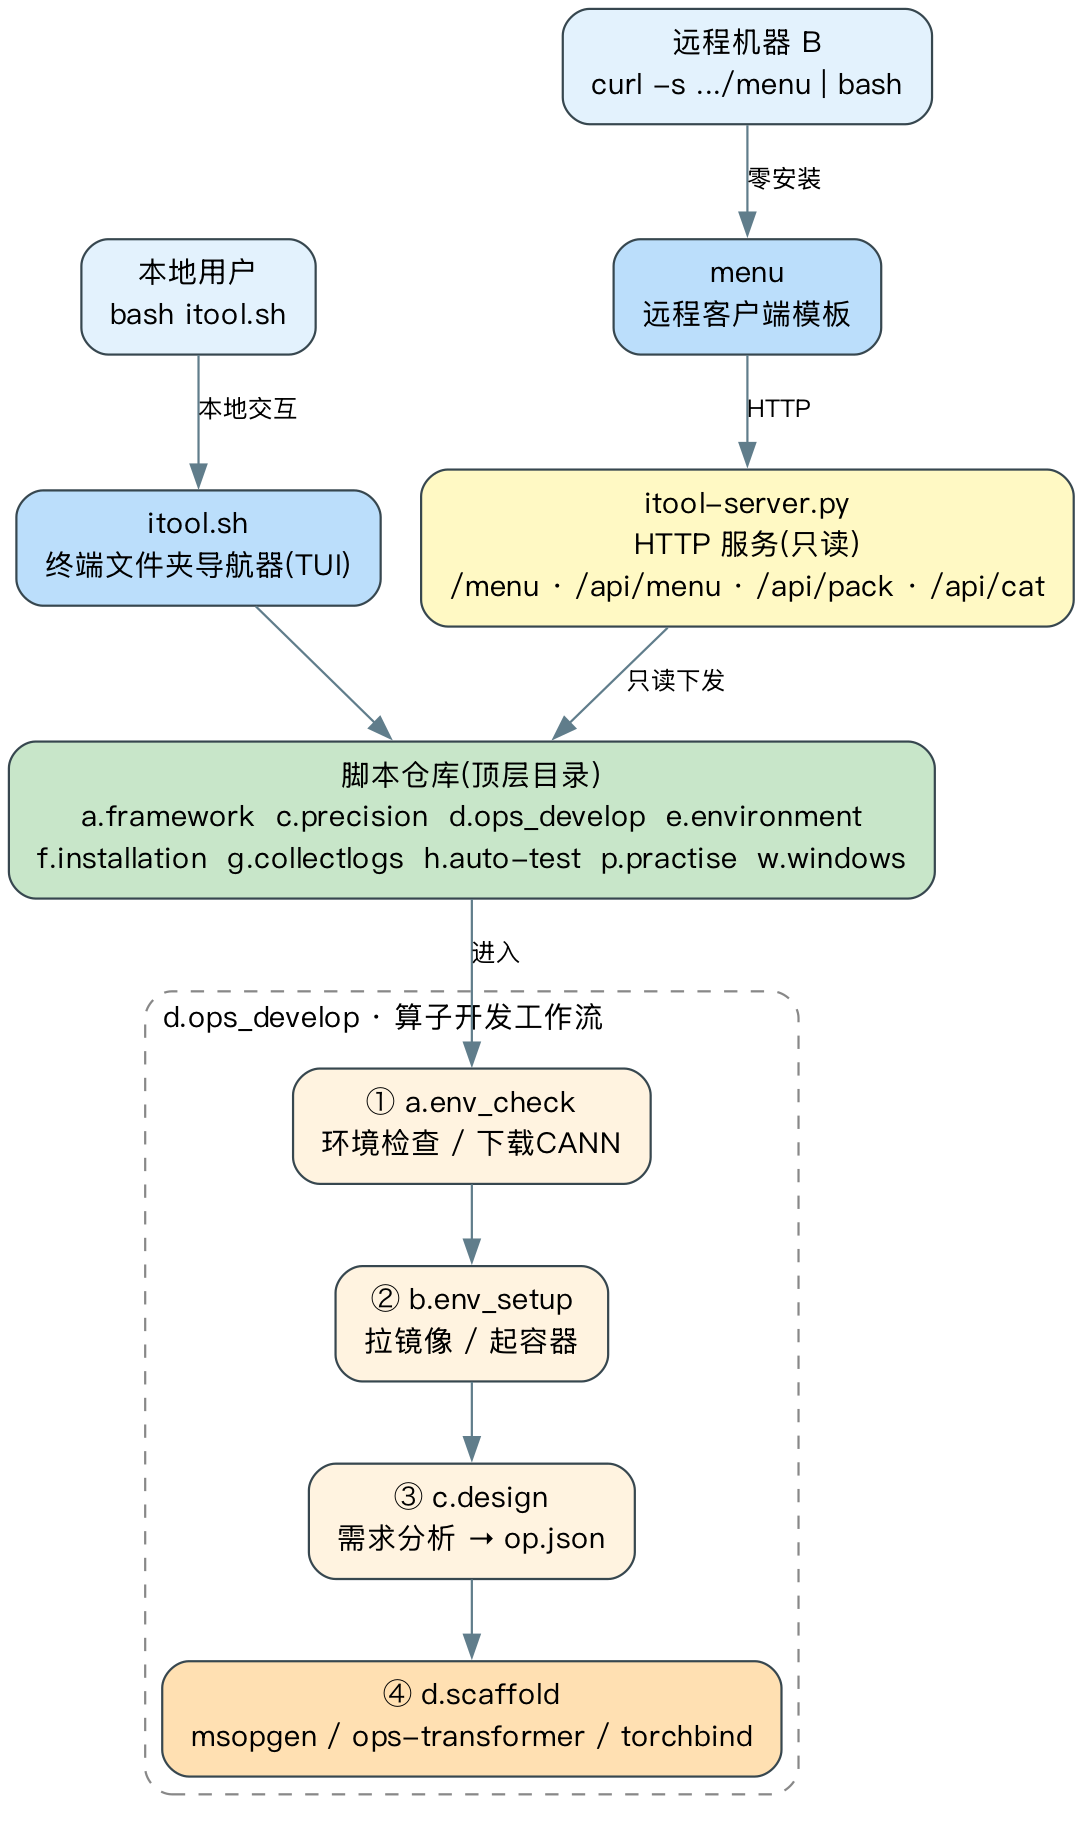
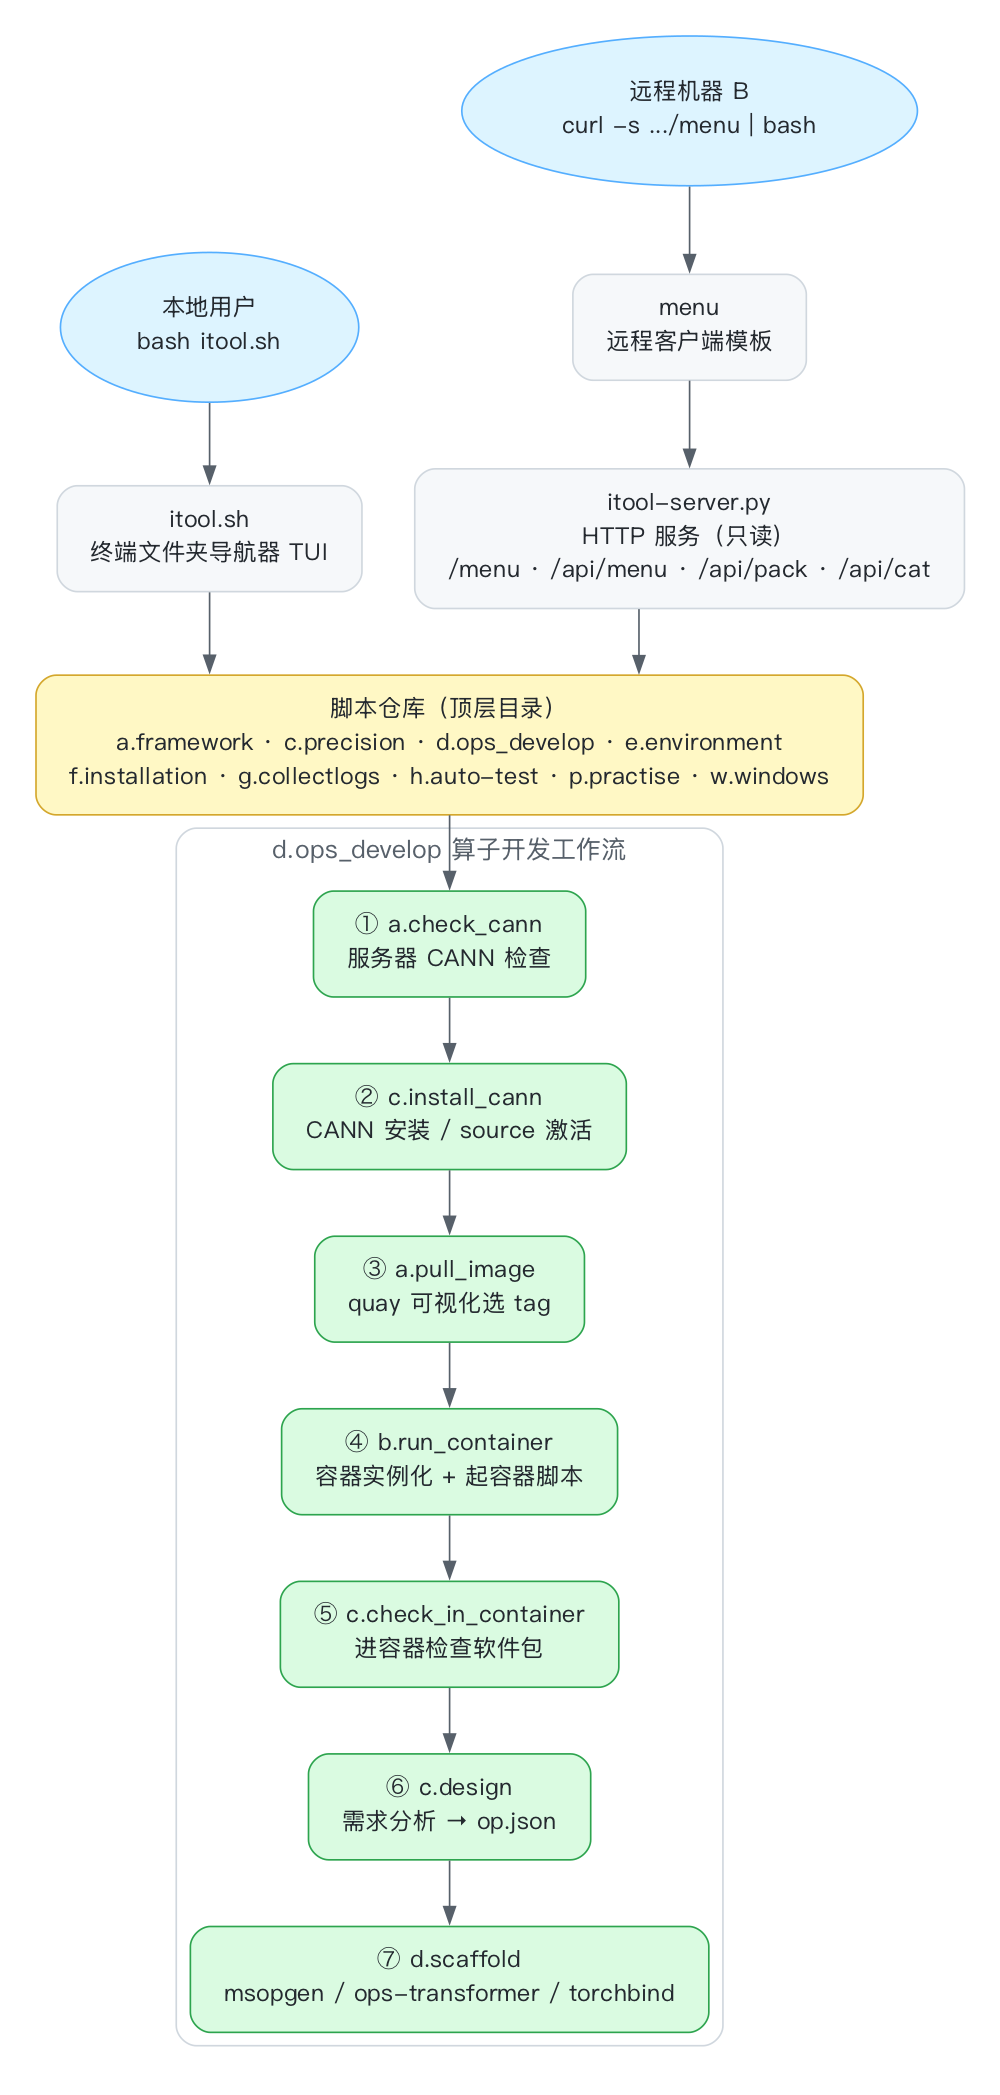
docs: 更新项目流程图 PNG 并新增 DOT 源文件
- 用 Graphviz 重新生成 docs/itool-flow.png, 与 README Mermaid ①→⑦ 流程一致
- 新增 docs/itool-flow.dot 便于后续一键重新生成
- README 增加流程图生成说明

diff --git a/README.md b/README.md
@@ -51,6 +51,8 @@ flowchart TB
 
 ![itool 项目流程图](docs/itool-flow.png)
 
+> 上图由 [docs/itool-flow.dot](docs/itool-flow.dot) 生成：`dot -Tpng -Gdpi=120 docs/itool-flow.dot -o docs/itool-flow.png`（与上方 Mermaid 一致）。
+
 ---
 
 ## 快速开始
